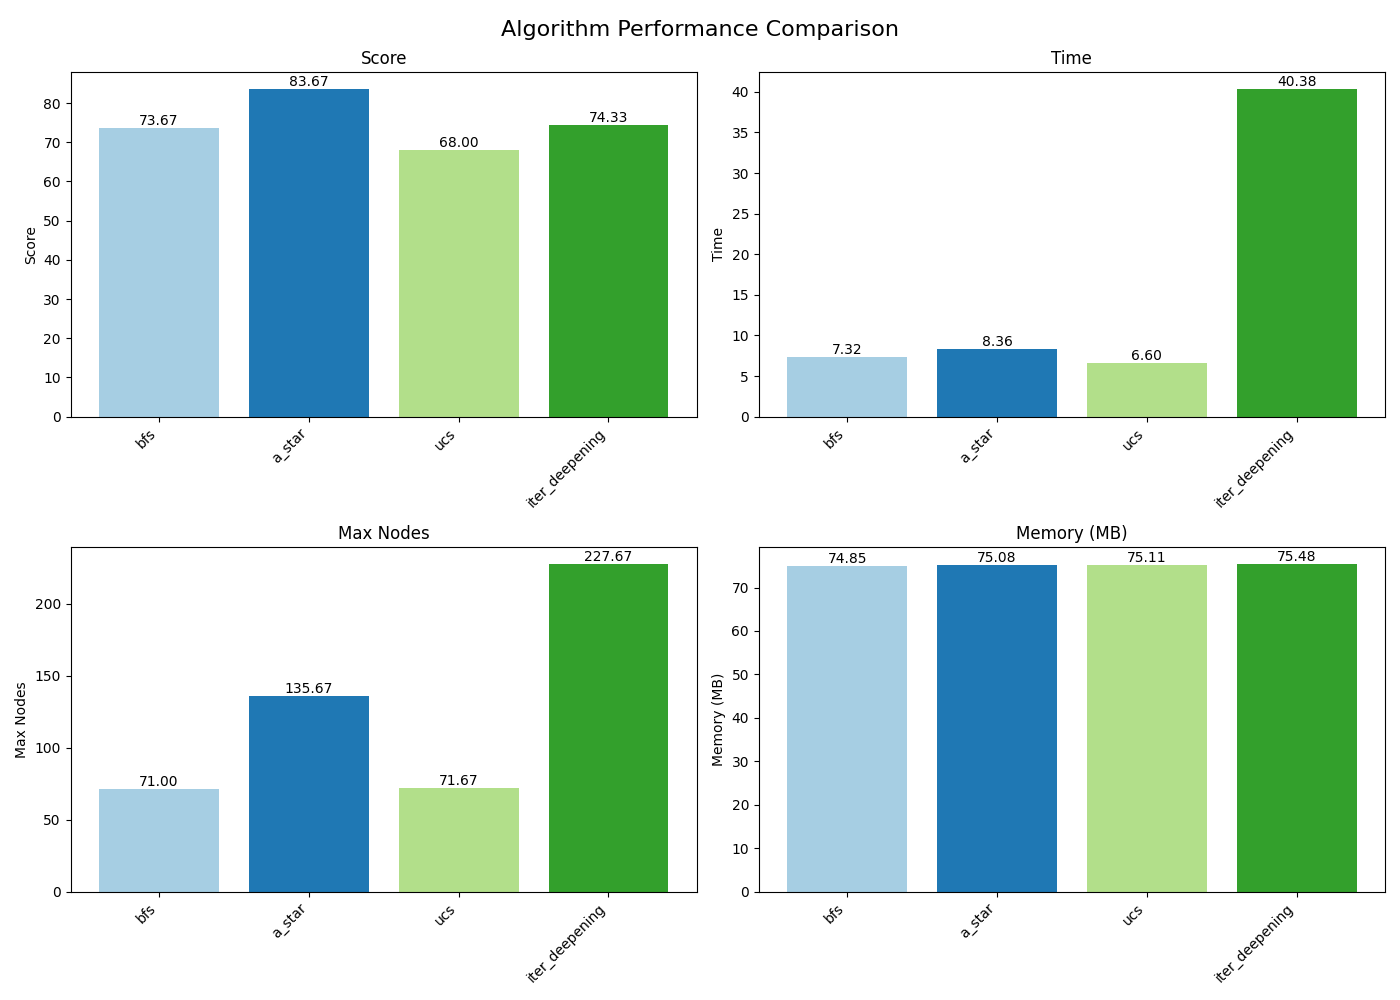
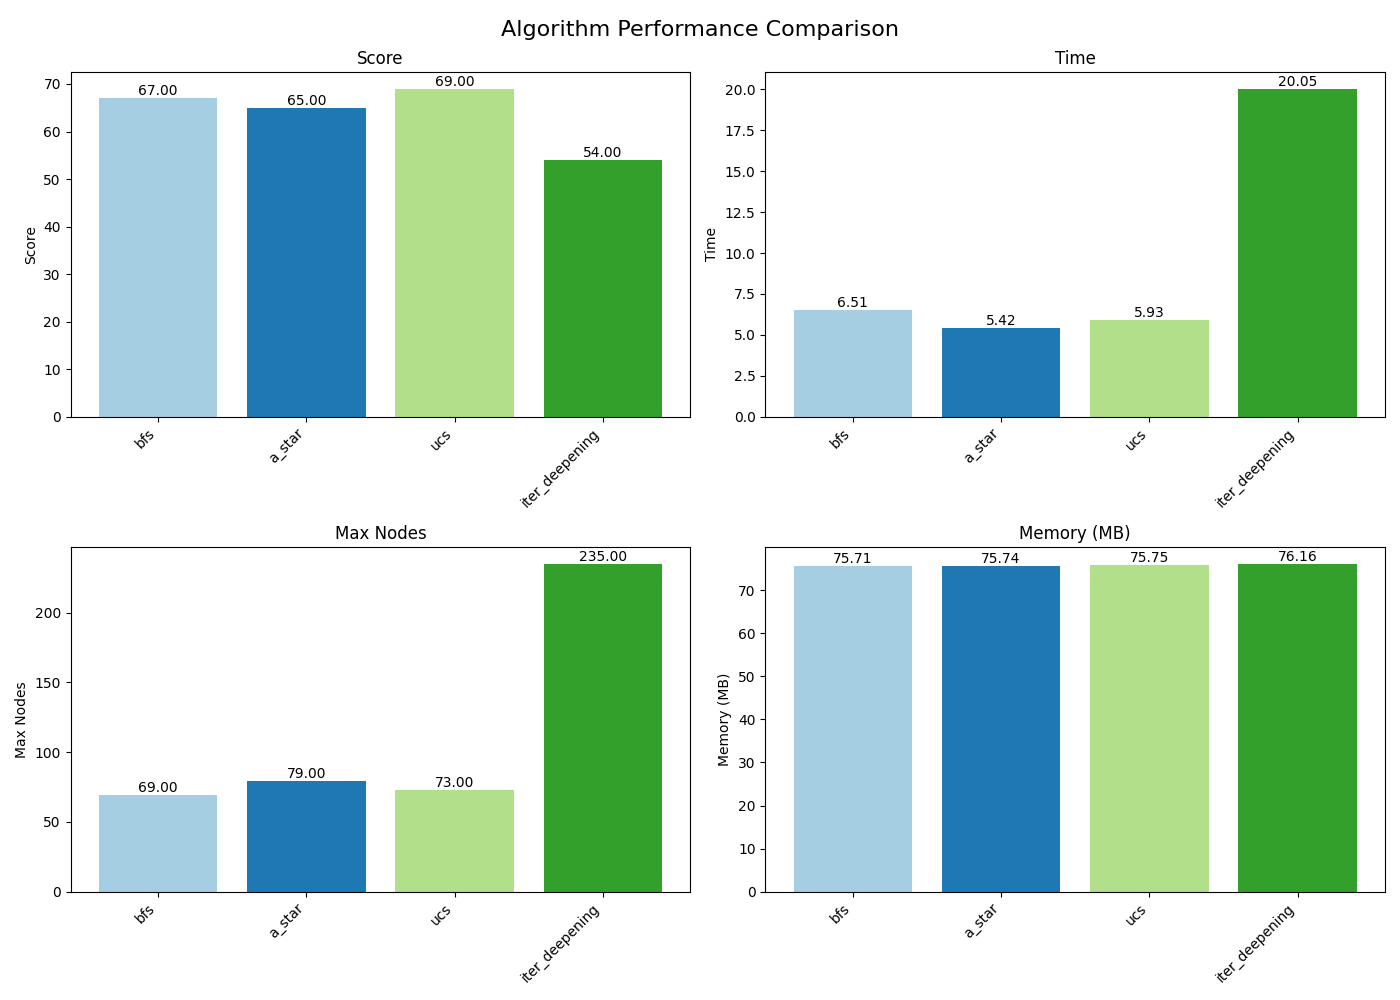
removed unecessary lines

diff --git a/main.py b/main.py
@@ -27,11 +27,9 @@ def main(algorithms, num_simulations=1):
             game = snk_g.SnakeGame(alg.__name__.upper())
             start_time = time.time()
             max_nodes = 0
-            peak_mem = 0
             # Initialize the memory usage
             time.sleep(0.1)  # Allow time for the process to start
             process = psutil.Process(os.getpid())
-            init_mem = process.memory_info().rss / (1024 * 1024)  # Memory usage calculated in MB
 
             # Initialize the search algorithm 
             while not game.game_over:
@@ -43,15 +41,9 @@ def main(algorithms, num_simulations=1):
                     game = snk_g.SnakeGame(alg.__name__.upper())
                     start_time = time.time()
                     max_nodes = 0
-                    peak_mem = 0
                     # Initialize the memory usage
                     time.sleep(0.1)  # Allow time for the process to start
                     process = psutil.Process(os.getpid())
-                    init_mem = process.memory_info().rss / (1024 * 1024)  
-
-                # Keep track of the memory usage before alg execution
-                current_mem = process.memory_info().rss / (1024 * 1024)
-                peak_mem = max(peak_mem, current_mem)  # Calculate peak memory usage
 
                 # Track the maximum number of nodes expanded in the search
                 path, current_max_nodes = alg(game)
@@ -81,12 +73,8 @@ def main(algorithms, num_simulations=1):
                 continue
 
             # Store the score and time taken for the current trial
+            final_mem = process.memory_info().rss / (1024 * 1024)  # Memory usage calculated in MB
             end_time = time.time()
-            final_mem = process.memory_info().rss / (1024 * 1024)
-            """  if total_trials == 1:
-                final_mem = final_mem - init_mem# Memory used during the simulation
-            else:
-                final_mem = final_mem  # Memory used during the simulation """
             total_trials += 1
 
             results[alg.__name__]["scores"].append(game.score)
@@ -117,5 +105,6 @@ def main(algorithms, num_simulations=1):
     return results
 
 if __name__ == "__main__":
-    results = main([snk_s.Snake_AI.bfs, snk_s.Snake_AI.a_star, snk_s.Snake_AI.ucs,snk_s.Snake_AI.iter_deepening], num_simulations=3)
+    #main([snk_s.Snake_AI.iter_deepening], num_simulations=1)
+    results = main([snk_s.Snake_AI.bfs, snk_s.Snake_AI.a_star, snk_s.Snake_AI.ucs,snk_s.Snake_AI.iter_deepening], num_simulations=1)
     plt.plot_results(results)

diff --git a/plot_eval.py b/plot_eval.py
@@ -32,6 +32,7 @@ def plot_results(results):
         # Rotate algorithm names if they're long
         plt.sca(ax)
         plt.xticks(rotation=45, ha='right')
+
     
     plt.tight_layout()
     plt.savefig('algorithm_comparison.png')  # Save to file
